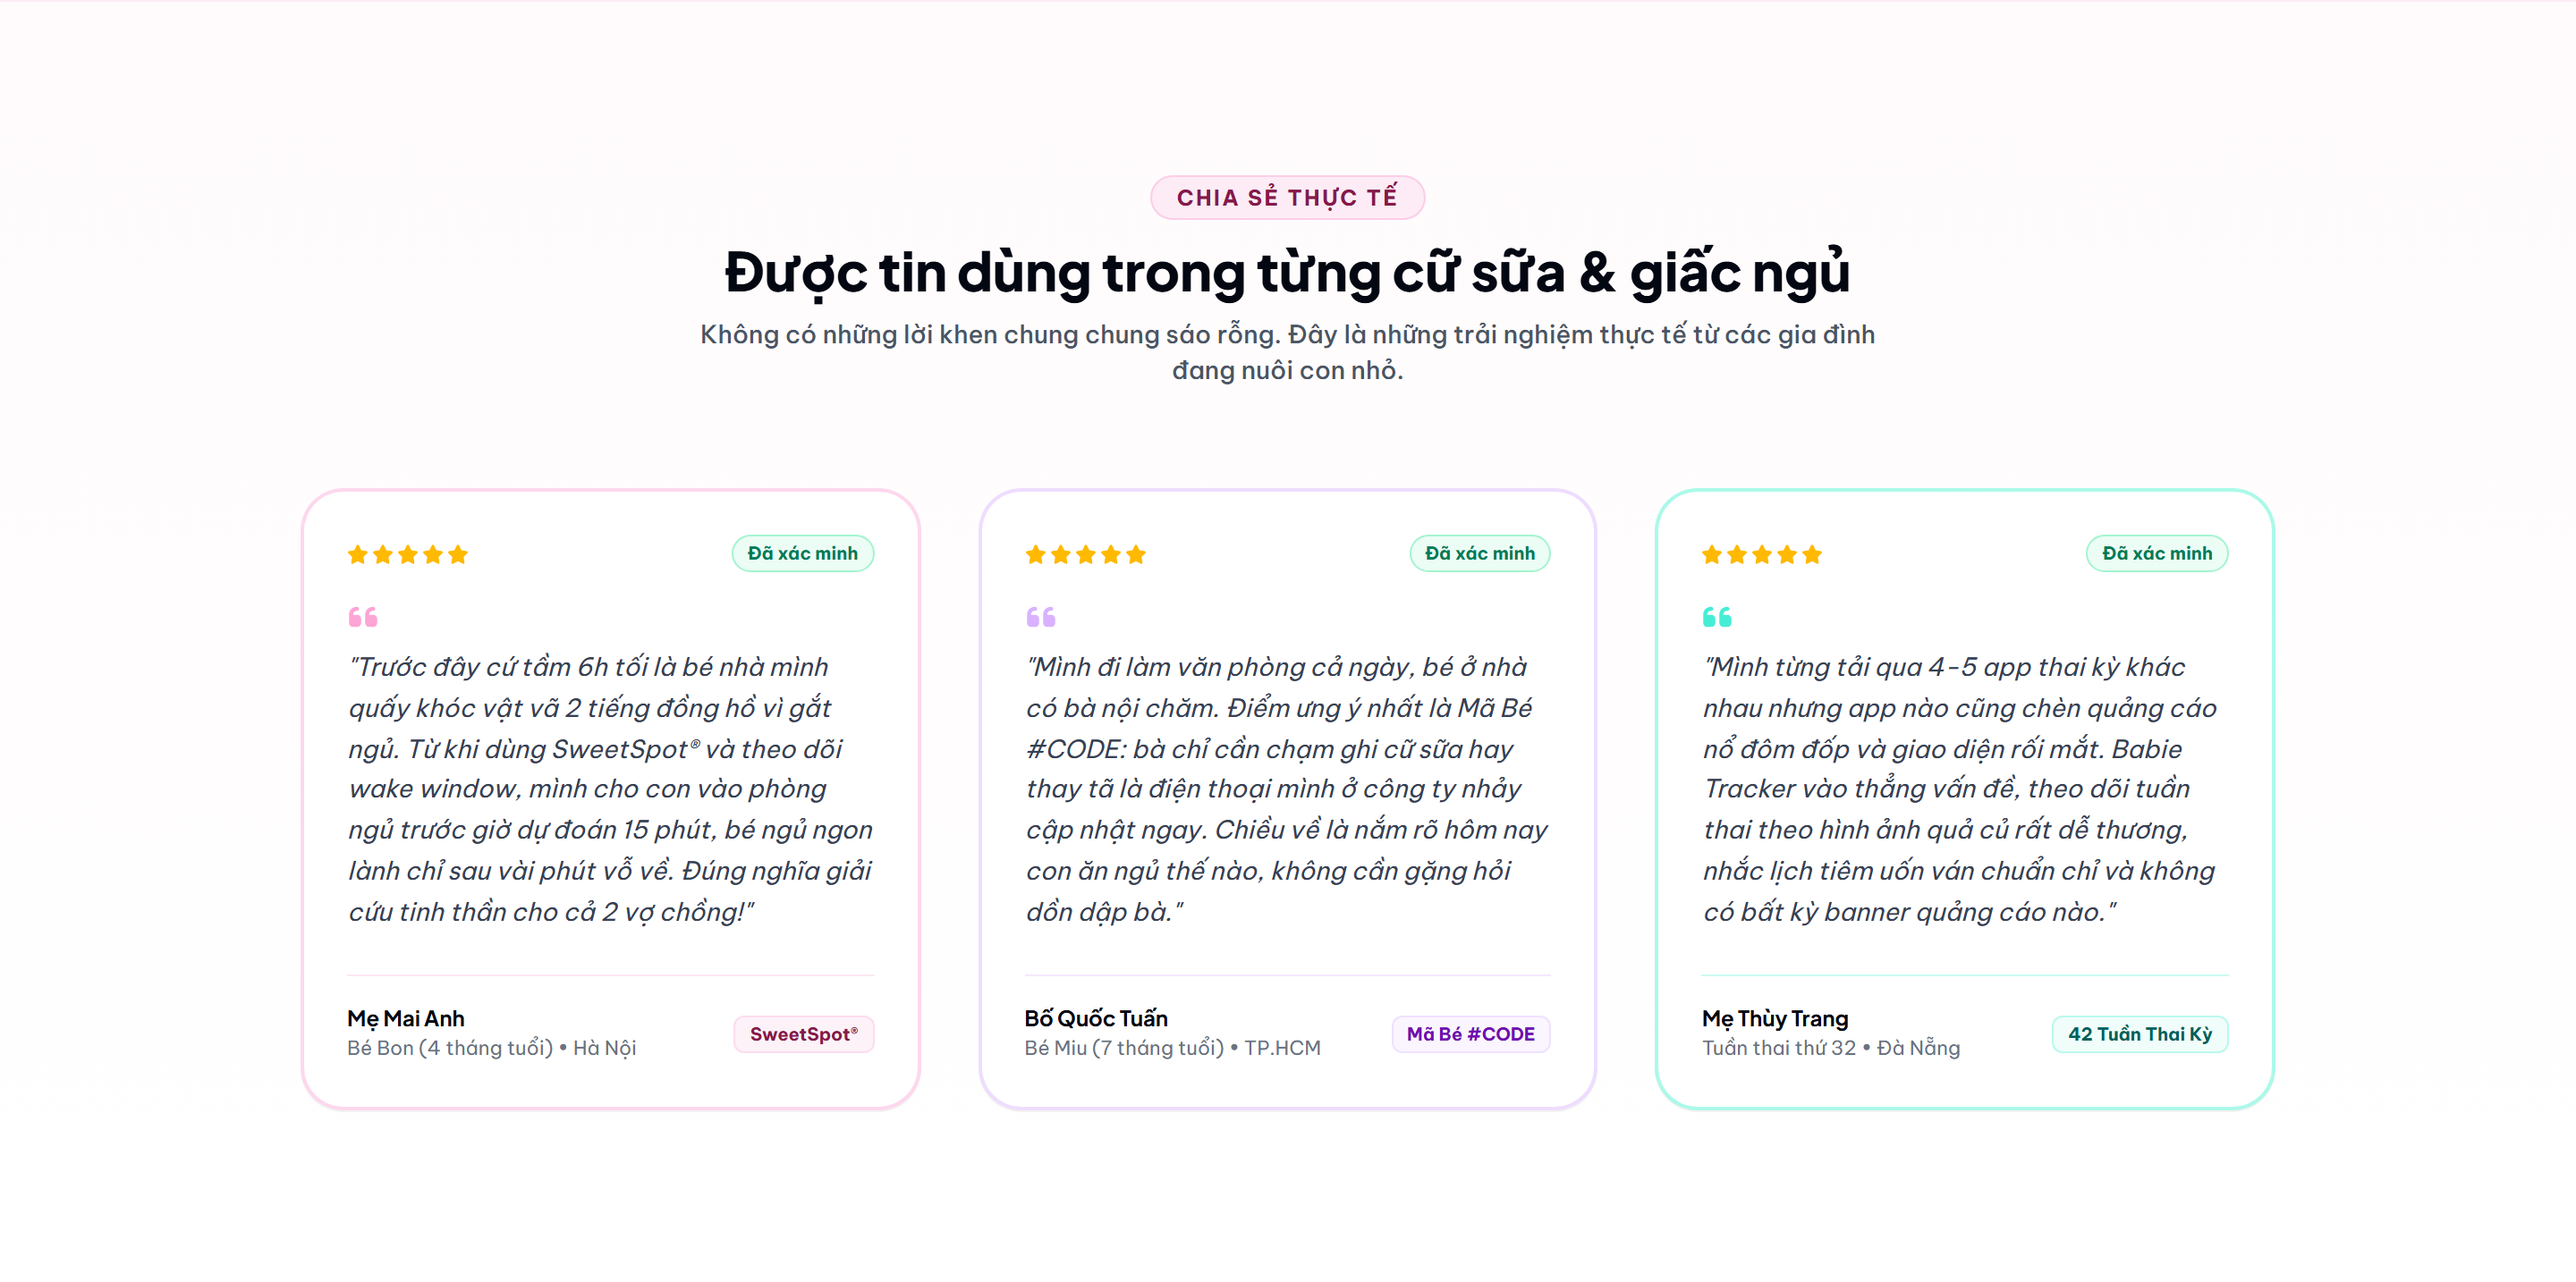
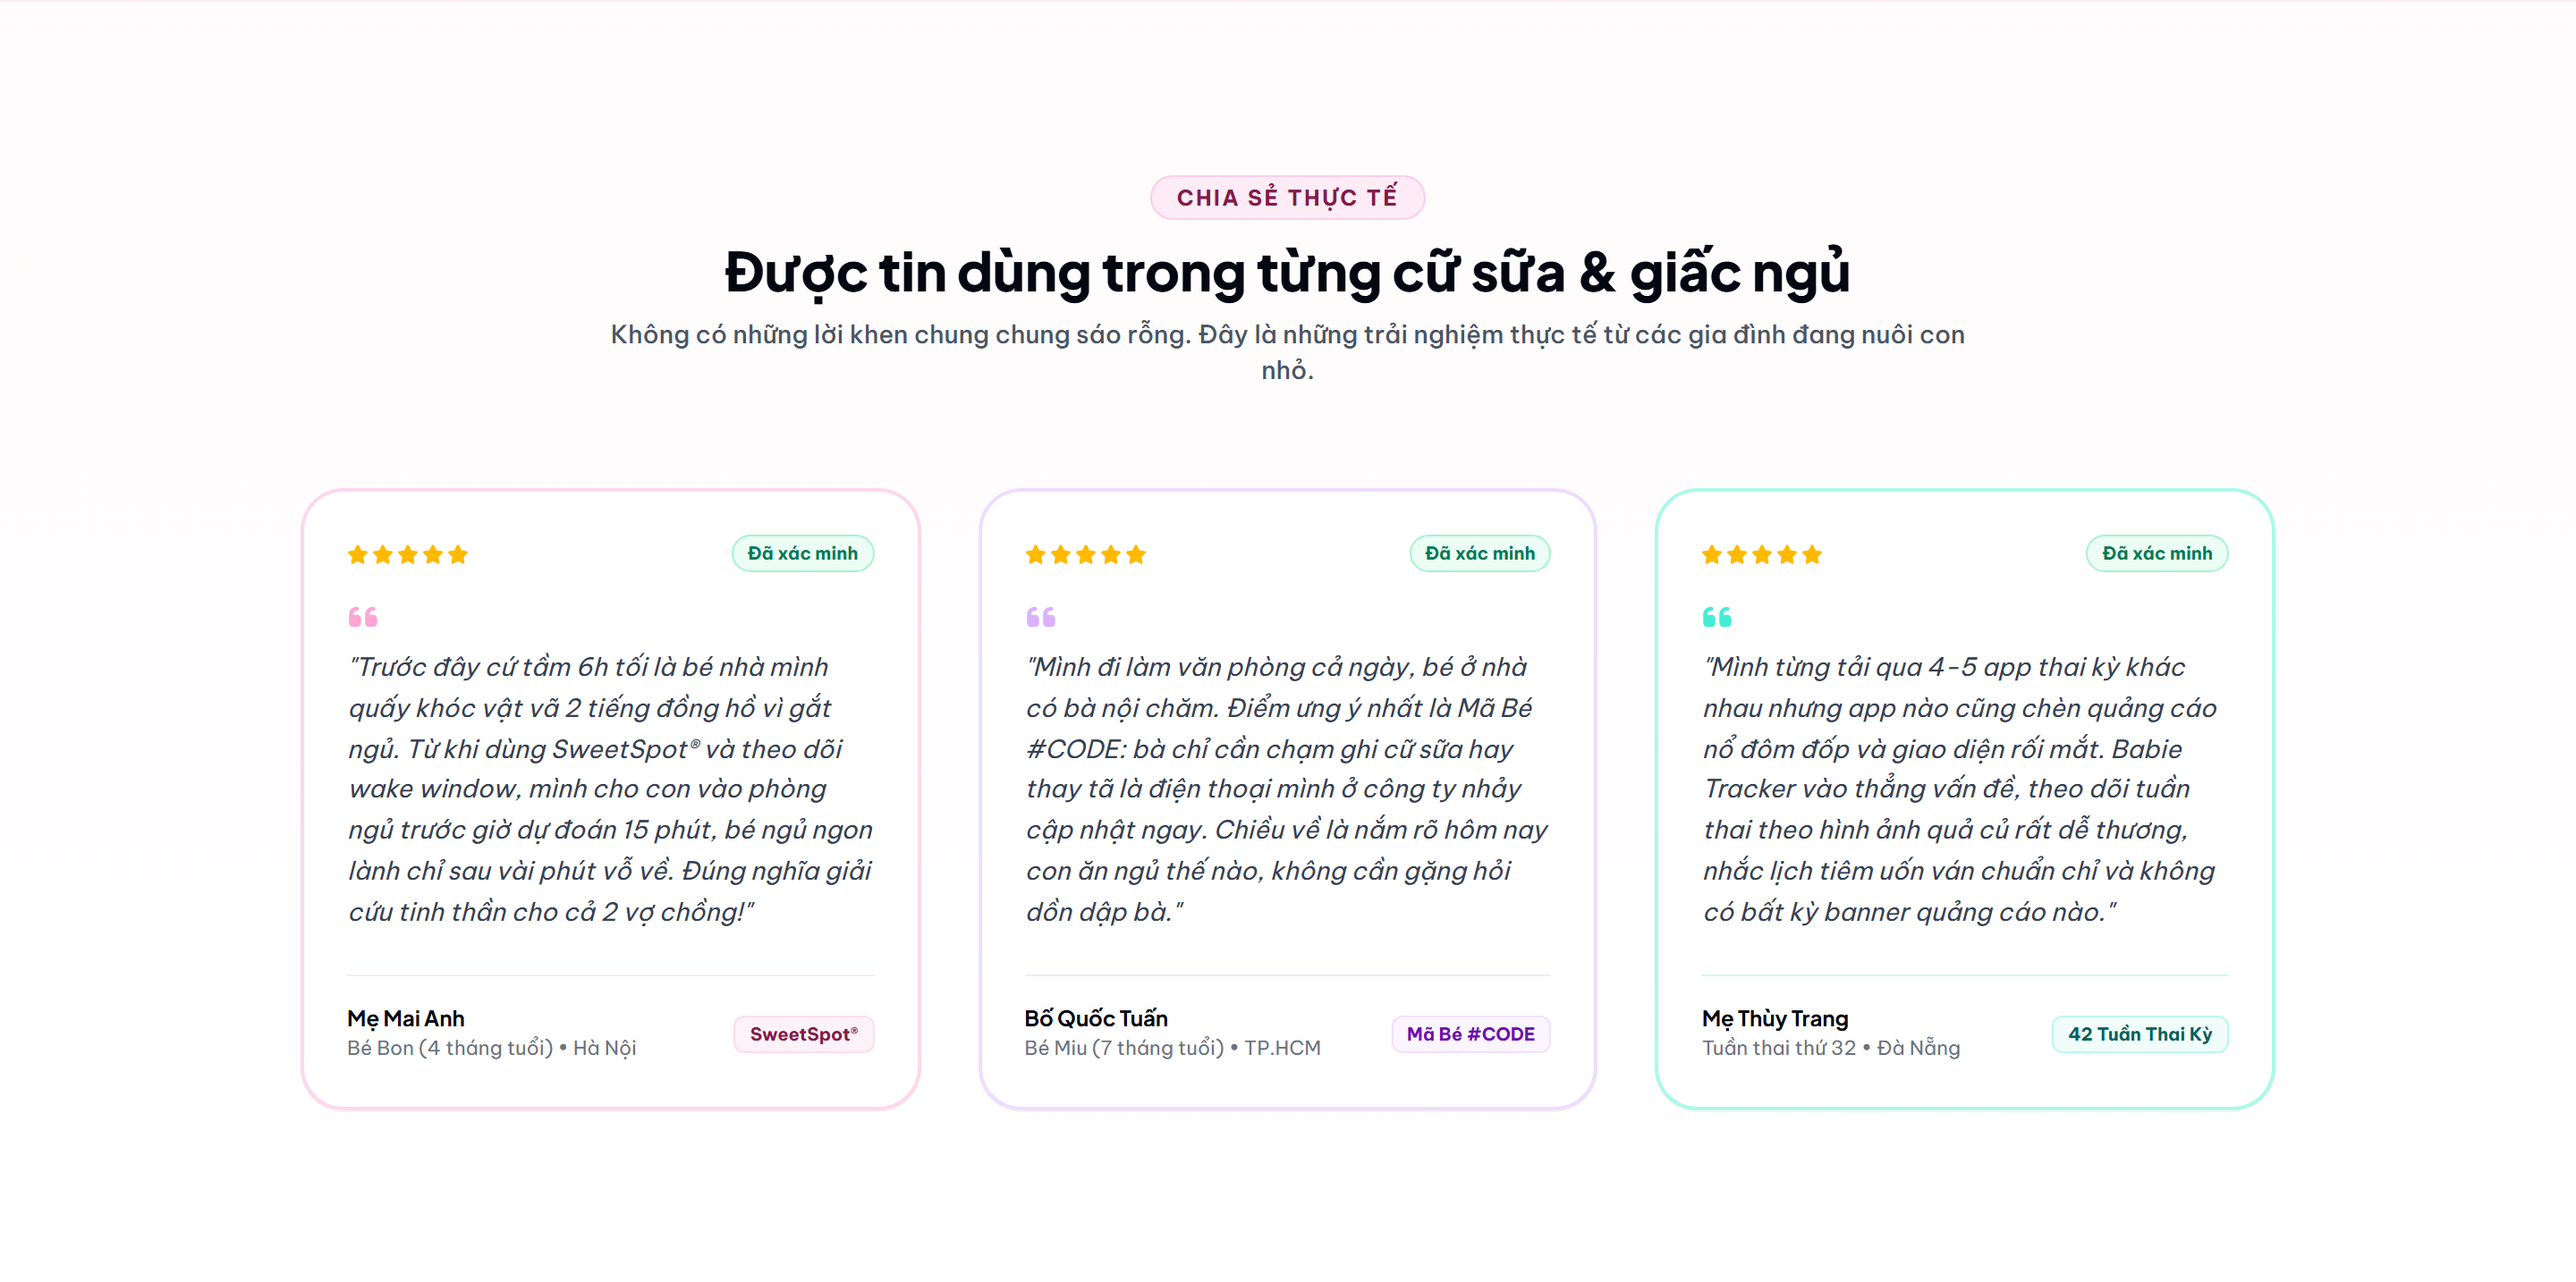
fix(landing): prevent awkward heading wrapping across sections, expand container widths on desktop

Changed region(s): [[0.25, 0.2455, 0.75, 0.3068]]

diff --git a/pe-thui/app/landing/page.js b/pe-thui/app/landing/page.js
@@ -374,14 +374,14 @@ export default function LandingPage() {
             {/* 3. CORE COMMITMENTS (WHY PARENTS LOVE BABIE TRACKER) */}
             <section className="py-16 sm:py-20 bg-white/90 border-y border-pink-200/70 shadow-xs">
                 <div className="max-w-6xl mx-auto px-4 sm:px-6">
-                    <div className="text-center max-w-2xl mx-auto mb-12">
+                    <div className="text-center max-w-4xl mx-auto mb-12">
                         <span className="text-xs font-bold text-[#861949] uppercase tracking-widest bg-pink-100/80 px-3.5 py-1 rounded-full border border-pink-200">
                             Tôn chỉ sản phẩm
                         </span>
-                        <h2 className="font-headline font-black text-2xl sm:text-3xl text-gray-950 mt-3 mb-3">
+                        <h2 className="font-headline font-black text-2xl sm:text-3xl lg:text-4xl text-gray-950 mt-3 mb-3 whitespace-normal md:whitespace-nowrap">
                             Tại sao ba mẹ chọn Babie Tracker thay vì các app khác?
                         </h2>
-                        <p className="text-sm text-gray-600 font-medium">
+                        <p className="text-sm text-gray-600 font-medium max-w-2xl mx-auto">
                             Không tính năng thừa, không làm phiền cha mẹ những lúc chăm con vất vả nhất.
                         </p>
                     </div>
@@ -590,11 +590,11 @@ export default function LandingPage() {
             {/* 5.5. A DAY IN THE LIFE (24H WITH BABIE TRACKER) */}
             <section className="py-16 sm:py-20 bg-[#fffbfc] border-y border-pink-100/70">
                 <div className="max-w-6xl mx-auto px-4 sm:px-6">
-                    <div className="text-center max-w-2xl mx-auto mb-12">
+                    <div className="text-center max-w-3xl mx-auto mb-12">
                         <span className="text-xs font-bold text-[#861949] uppercase tracking-widest bg-pink-100/80 px-3.5 py-1 rounded-full border border-pink-200">
                             Thực tế từng ngày
                         </span>
-                        <h2 className="font-headline font-black text-2xl sm:text-3xl text-gray-950 mt-3 mb-2">
+                        <h2 className="font-headline font-black text-2xl sm:text-3xl text-gray-950 mt-3 mb-2 whitespace-normal md:whitespace-nowrap">
                             Một ngày nhẹ nhàng hơn cùng Babie Tracker
                         </h2>
                         <p className="text-sm text-gray-600 font-medium">
@@ -657,14 +657,14 @@ export default function LandingPage() {
             {/* 6. DEEP DIVE: HEALTH, WHO CHARTS & TEETHING */}
             <section className="py-16 sm:py-24 bg-gradient-to-b from-[#fffbfc] to-[#fff6f8]">
                 <div className="max-w-6xl mx-auto px-4 sm:px-6">
-                    <div className="text-center max-w-2xl mx-auto mb-14">
+                    <div className="text-center max-w-4xl mx-auto mb-14">
                         <span className="text-xs font-bold text-teal-800 uppercase tracking-widest bg-teal-100 px-3.5 py-1 rounded-full border border-teal-200">
                             Sổ sức khỏe số
                         </span>
-                        <h2 className="font-headline font-black text-2xl sm:text-3xl text-gray-950 mt-3 mb-3">
+                        <h2 className="font-headline font-black text-2xl sm:text-3xl lg:text-4xl text-gray-950 mt-3 mb-3 whitespace-normal md:whitespace-nowrap">
                             Theo dõi tăng trưởng & Tiêm chủng chuẩn Bộ Y Tế
                         </h2>
-                        <p className="text-sm text-gray-600 font-medium">
+                        <p className="text-sm text-gray-600 font-medium max-w-2xl mx-auto">
                             Tự tin mỗi khi đưa con đi khám định kỳ với đầy đủ dữ liệu tăng trưởng trong tay.
                         </p>
                     </div>
@@ -808,14 +808,14 @@ export default function LandingPage() {
 
             {/* 7. FAMILY SYNC WITH BABY CODE #CODE */}
             <section id="family-sync" className="py-16 sm:py-20 bg-gradient-to-br from-pink-100/70 via-rose-50/50 to-purple-100/60 border-y-2 border-pink-200">
-                <div className="max-w-4xl mx-auto px-4 sm:px-6 text-center">
+                <div className="max-w-5xl mx-auto px-4 sm:px-6 text-center">
                     <div className="w-16 h-16 rounded-3xl bg-gradient-to-r from-[#861949] to-[#c2185b] text-white mx-auto flex items-center justify-center text-3xl shadow-lg shadow-pink-900/20 mb-6">
                         👨👩👧
                     </div>
                     <span className="text-xs font-black text-[#861949] uppercase tracking-widest bg-white/90 px-3.5 py-1 rounded-full border border-pink-200 shadow-2xs">
                         Đột phá trải nghiệm
                     </span>
-                    <h2 className="font-headline font-black text-2xl sm:text-4xl text-gray-950 mt-3 mb-4">
+                    <h2 className="font-headline font-black text-2xl sm:text-3xl lg:text-4xl text-gray-950 mt-3 mb-4 whitespace-normal md:whitespace-nowrap">
                         Đồng bộ cả gia đình chỉ bằng một Mã Bé duy nhất
                     </h2>
                     <p className="text-base text-gray-700 max-w-2xl mx-auto leading-relaxed mb-8 font-medium">
@@ -855,11 +855,11 @@ export default function LandingPage() {
             {/* 7.5. 3 AM PARENT ERGONOMICS & RELIABILITY */}
             <section className="py-16 sm:py-24 bg-white">
                 <div className="max-w-6xl mx-auto px-4 sm:px-6">
-                    <div className="text-center max-w-2xl mx-auto mb-14">
+                    <div className="text-center max-w-3xl mx-auto mb-14">
                         <span className="text-xs font-bold text-[#861949] uppercase tracking-widest bg-pink-100/80 px-3.5 py-1 rounded-full border border-pink-200">
                             Thiết kế vị nhân sinh
                         </span>
-                        <h2 className="font-headline font-black text-2xl sm:text-3xl text-gray-950 mt-3 mb-2">
+                        <h2 className="font-headline font-black text-2xl sm:text-3xl text-gray-950 mt-3 mb-2 whitespace-normal md:whitespace-nowrap">
                             Thấu hiểu từng chi tiết lúc 3 giờ sáng
                         </h2>
                         <p className="text-sm text-gray-600 font-medium">
@@ -989,11 +989,11 @@ export default function LandingPage() {
             {/* 8.5. AUTHENTIC PARENT VOICES */}
             <section className="py-16 sm:py-24 bg-gradient-to-b from-[#fffbfc] to-white border-t border-pink-100/80">
                 <div className="max-w-6xl mx-auto px-4 sm:px-6">
-                    <div className="text-center max-w-2xl mx-auto mb-14">
+                    <div className="text-center max-w-3xl mx-auto mb-14">
                         <span className="text-xs font-bold text-[#861949] uppercase tracking-widest bg-pink-100/80 px-3.5 py-1 rounded-full border border-pink-200">
                             Chia sẻ thực tế
                         </span>
-                        <h2 className="font-headline font-black text-2xl sm:text-3xl text-gray-950 mt-3 mb-2">
+                        <h2 className="font-headline font-black text-2xl sm:text-3xl text-gray-950 mt-3 mb-2 whitespace-normal md:whitespace-nowrap">
                             Được tin dùng trong từng cữ sữa & giấc ngủ
                         </h2>
                         <p className="text-sm text-gray-600 font-medium">
@@ -1160,12 +1160,12 @@ export default function LandingPage() {
 
             {/* 10. FINAL CALL TO ACTION & FOOTER */}
             <section className="py-16 sm:py-24 bg-gradient-to-b from-[#fff6f8] to-[#fee6ed] text-center border-t-2 border-pink-200">
-                <div className="max-w-4xl mx-auto px-4 sm:px-6">
+                <div className="max-w-5xl mx-auto px-4 sm:px-6">
                     <div className="w-16 h-16 rounded-full mx-auto p-1 bg-white border-2 border-pink-300 shadow-lg overflow-hidden mb-6">
                         <img src="/logo-stitch.png" alt="Babie Tracker Logo" className="w-full h-full object-cover rounded-full" />
                     </div>
 
-                    <h2 className="font-headline font-black text-2xl sm:text-4xl text-gray-950 mb-3">
+                    <h2 className="font-headline font-black text-2xl sm:text-3xl lg:text-4xl text-gray-950 mb-3 whitespace-normal md:whitespace-nowrap">
                         Bắt đầu hành trình chăm con an tâm ngay hôm nay
                     </h2>
                     <p className="text-sm sm:text-base text-gray-700 max-w-xl mx-auto mb-8 font-medium">
